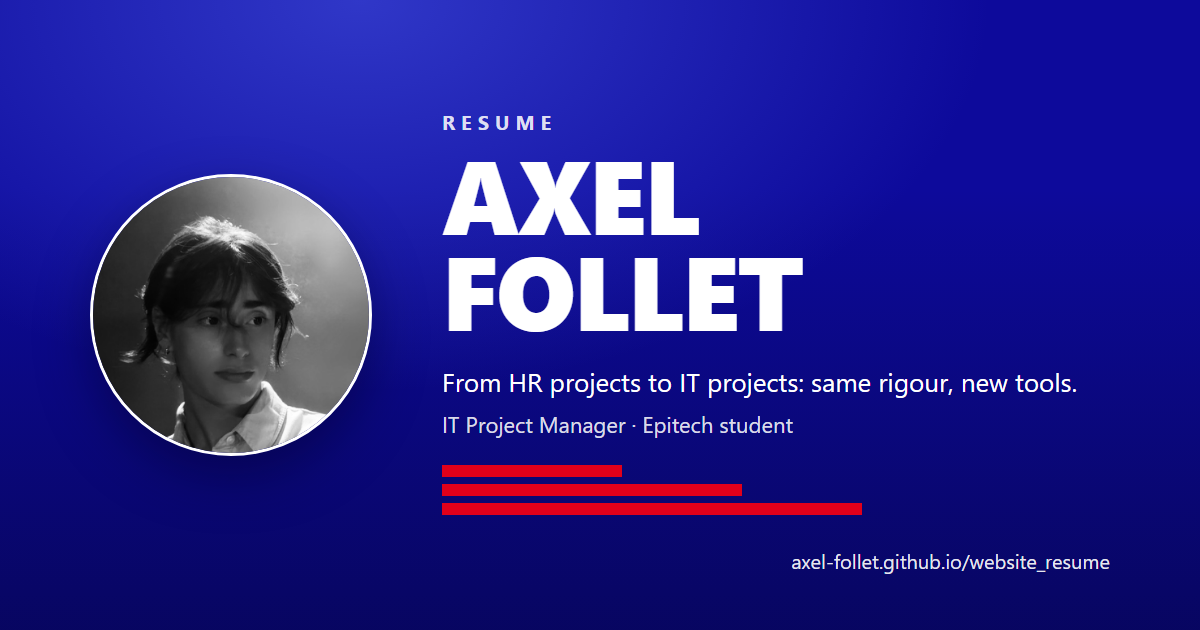
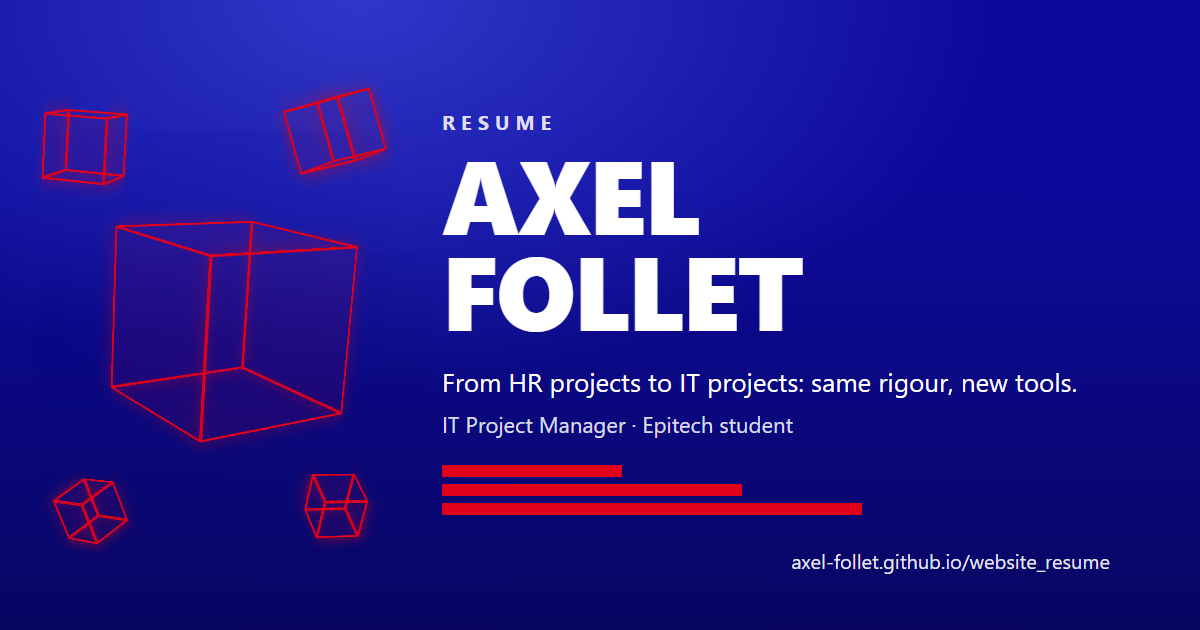
correction image

Changed region(s): [[0.0308, 0.1206, 0.3392, 0.754], [0.0308, 0.754, 0.1233, 0.8746], [0.2467, 0.754, 0.3083, 0.8746]]

diff --git a/index.html b/index.html
@@ -971,8 +971,15 @@
             <div>
                 <h2 class="footer__title">Ressources et crédits</h2>
                 <p class="footer__credits">
-                    Photo et textes : créations personnelles d'Axel FOLLET. Les cubes 3D et les icônes sont réalisés en HTML, CSS et JavaScript. LinkedIn® et le logo [in]® sont des marques de LinkedIn Corporation et de ses sociétés affiliées. Ce site personnel n’est ni affilié à LinkedIn ni approuvé par LinkedIn. Aucune police ni thème tiers n'est utilisé : la police est celle du système.
+                    Photo et textes : créations personnelles d'Axel FOLLET. Les cubes 3D et les icônes sont réalisés en HTML, CSS et JavaScript, sauf le logo LinkedIn. LinkedIn® et le logo [in]® sont des marques de LinkedIn Corporation et de ses sociétés affiliées. Ce site personnel n’est ni affilié à LinkedIn ni approuvé par LinkedIn. Aucun thème tiers ni police téléchargée : le texte utilise les polices installées sur l'appareil.
                 </p>
+                <details class="footer__legal">
+                    <summary class="footer__legal-toggle">Mentions légales et données</summary>
+                    <p><strong>Éditeur :</strong> Axel FOLLET, site personnel non professionnel. Contact : formulaire du site ou LinkedIn.</p>
+                    <p><strong>Hébergeur :</strong> GitHub, Inc., 88 Colin P. Kelly Jr. Street, San Francisco, CA 94107, États-Unis.</p>
+                    <p><strong>Formulaire de contact :</strong> vos nom, prénom, e-mail, sujet et message servent uniquement à vous répondre. Ils transitent par Formspree, service situé aux États-Unis, et sont supprimés 12 mois après notre dernier échange. Vous pouvez demander à y accéder, à les corriger ou à les supprimer par le formulaire ou LinkedIn, et adresser une réclamation à la <a href="https://www.cnil.fr/fr/plaintes" target="_blank" rel="noopener noreferrer">CNIL</a>.</p>
+                    <p><strong>Navigateur :</strong> aucun cookie ni mesure d'audience. Le site garde seulement sur votre appareil vos records de Snake et du Pendu.</p>
+                </details>
             </div>
 
         </div>

diff --git a/index-en.html b/index-en.html
@@ -971,8 +971,15 @@
             <div>
                 <h2 class="footer__title">Resources and credits</h2>
                 <p class="footer__credits">
-                    Photo and texts: original work by Axel FOLLET. The 3D cubes and icons are made with HTML, CSS and JavaScript. LinkedIn® and the [in]® logo are trademarks of LinkedIn Corporation and its affiliates. This personal website is neither affiliated with nor endorsed by LinkedIn. No third-party font or theme is used: the font is the system one.
+                    Photo and texts: original work by Axel FOLLET. The 3D cubes and icons are made with HTML, CSS and JavaScript, except the LinkedIn logo. LinkedIn® and the [in]® logo are trademarks of LinkedIn Corporation and its affiliates. This personal website is neither affiliated with nor endorsed by LinkedIn. No third-party theme or downloaded font: text uses the fonts installed on the device.
                 </p>
+                <details class="footer__legal">
+                    <summary class="footer__legal-toggle">Legal notice and data</summary>
+                    <p><strong>Publisher:</strong> Axel FOLLET, personal non-professional website. Contact: the site form or LinkedIn.</p>
+                    <p><strong>Host:</strong> GitHub, Inc., 88 Colin P. Kelly Jr. Street, San Francisco, CA 94107, United States.</p>
+                    <p><strong>Contact form:</strong> your surname, first name, email, subject and message are used only to reply to you. They go through Formspree, a service based in the United States, and are deleted 12 months after our last exchange. You can ask to access, correct or delete them through the form or LinkedIn, and lodge a complaint with the <a href="https://www.cnil.fr/en/complaints" target="_blank" rel="noopener noreferrer">CNIL</a> (French data protection authority).</p>
+                    <p><strong>Browser:</strong> no cookies and no audience tracking. The site only keeps your Snake and Hangman records on your device.</p>
+                </details>
             </div>
 
         </div>

diff --git a/css/footer.css b/css/footer.css
@@ -112,6 +112,74 @@
 }
 
 
+/* Mentions légales repliées : une ligne tant qu'on ne clique pas, le détail s'ouvre sous les crédits */
+.footer__legal {
+    max-width: 520px;
+
+    margin-top: 10px;
+
+    font-size: 0.85rem;
+    line-height: 1.6;
+}
+
+
+/* list-style et ::-webkit-details-marker retirent le triangle du navigateur, remplacé par + / − */
+.footer__legal-toggle {
+    display: inline-flex;
+    align-items: center;
+
+    min-height: 32px;
+
+    font-weight: 600;
+
+    list-style: none;
+    cursor: pointer;
+}
+
+
+.footer__legal-toggle::-webkit-details-marker {
+    display: none;
+}
+
+
+.footer__legal-toggle::after {
+    content: "+";
+
+    margin-left: 8px;
+}
+
+
+.footer__legal[open] .footer__legal-toggle::after {
+    content: "−";
+}
+
+
+.footer__legal-toggle:hover {
+    opacity: 0.75;
+}
+
+
+.footer__legal-toggle:focus-visible {
+    outline: 3px solid white;
+    outline-offset: 4px;
+}
+
+
+.footer__legal p {
+    margin: 8px 0 0;
+
+    opacity: 0.8;
+}
+
+
+.footer__legal a {
+    color: inherit;
+
+    font-weight: 600;
+    text-decoration: none;
+}
+
+
 @media (max-width: 767px) {
 
     .footer {
